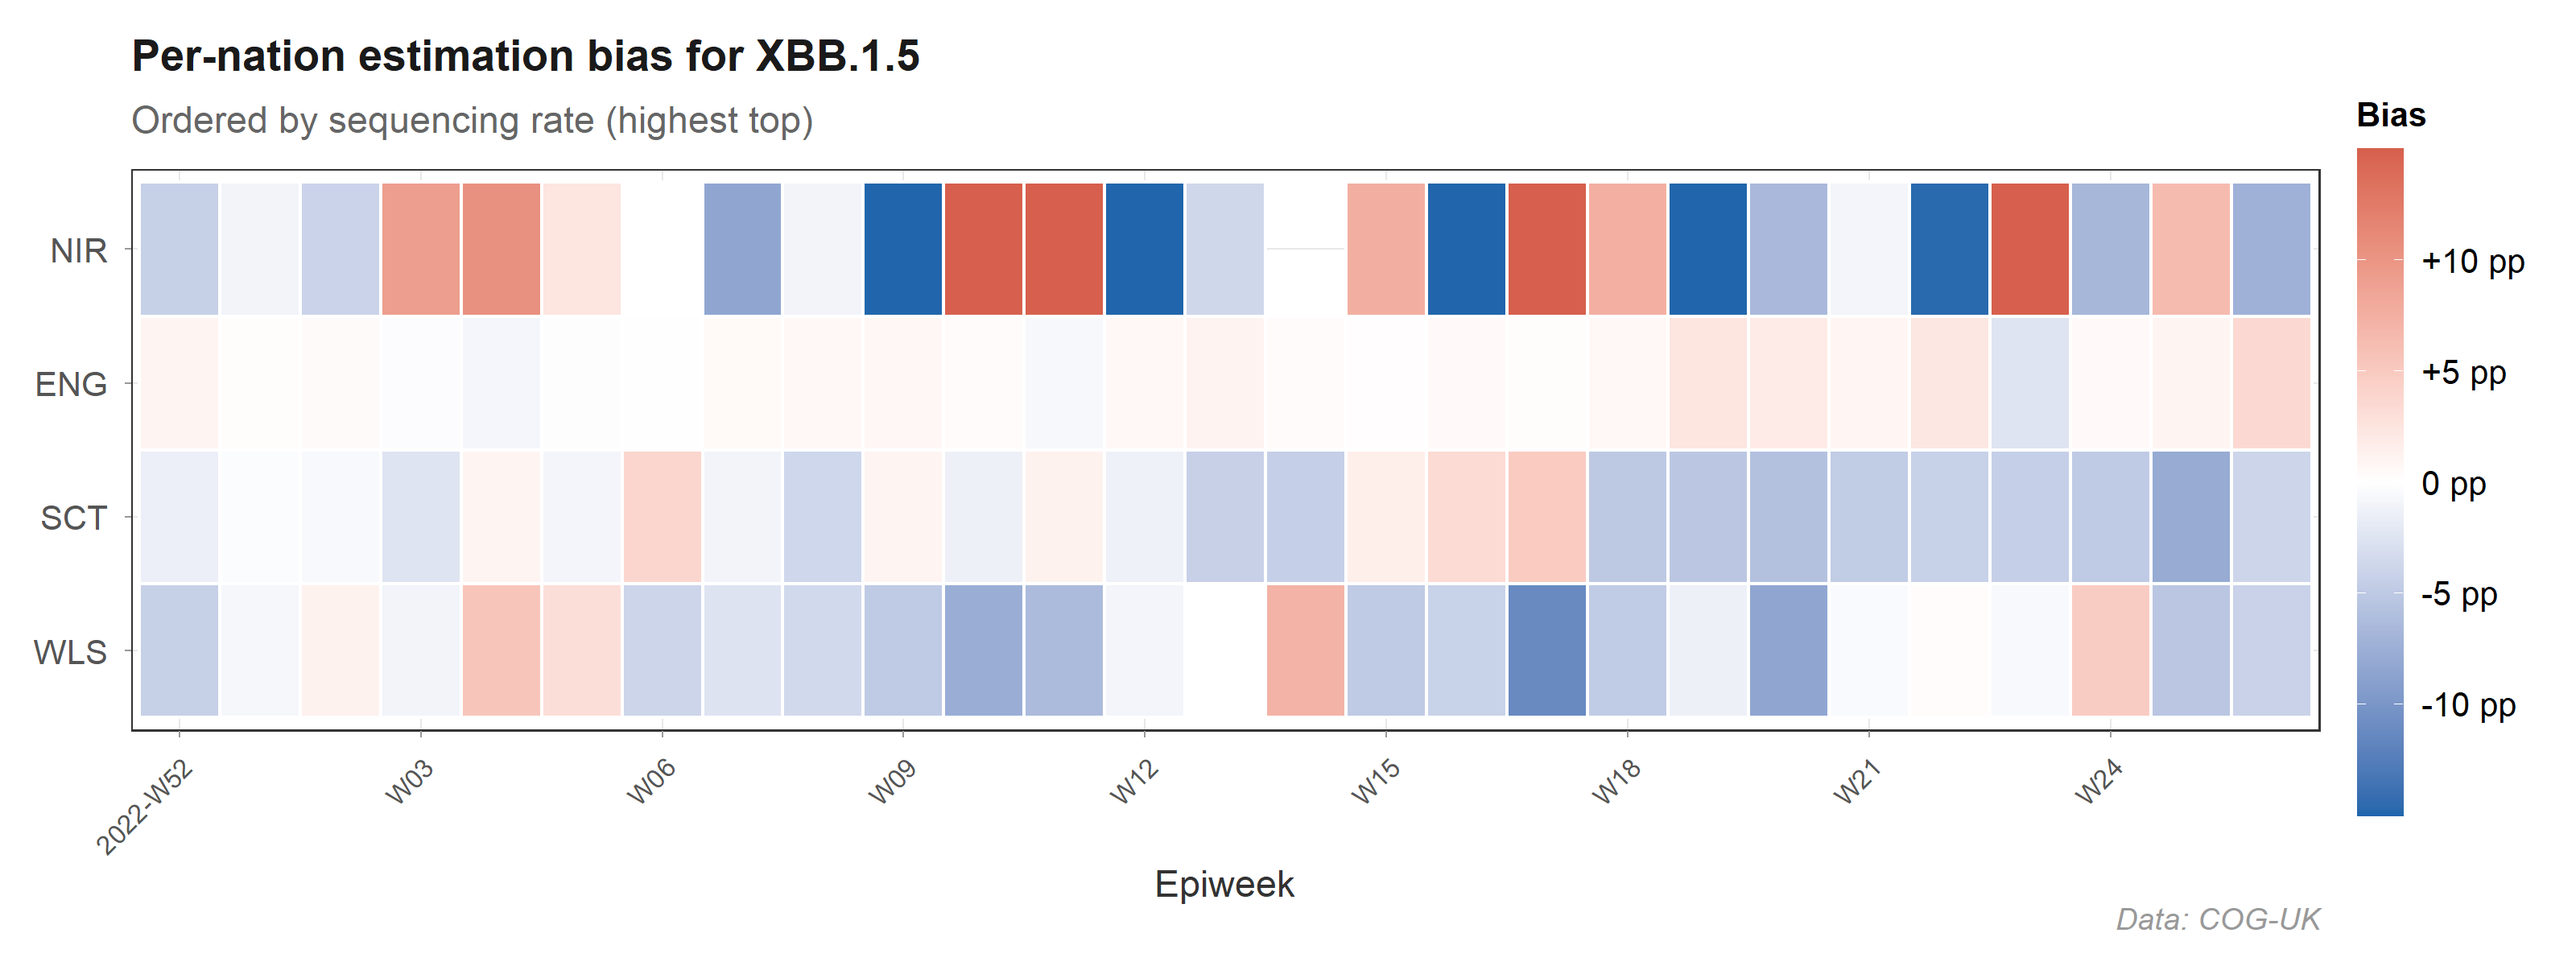
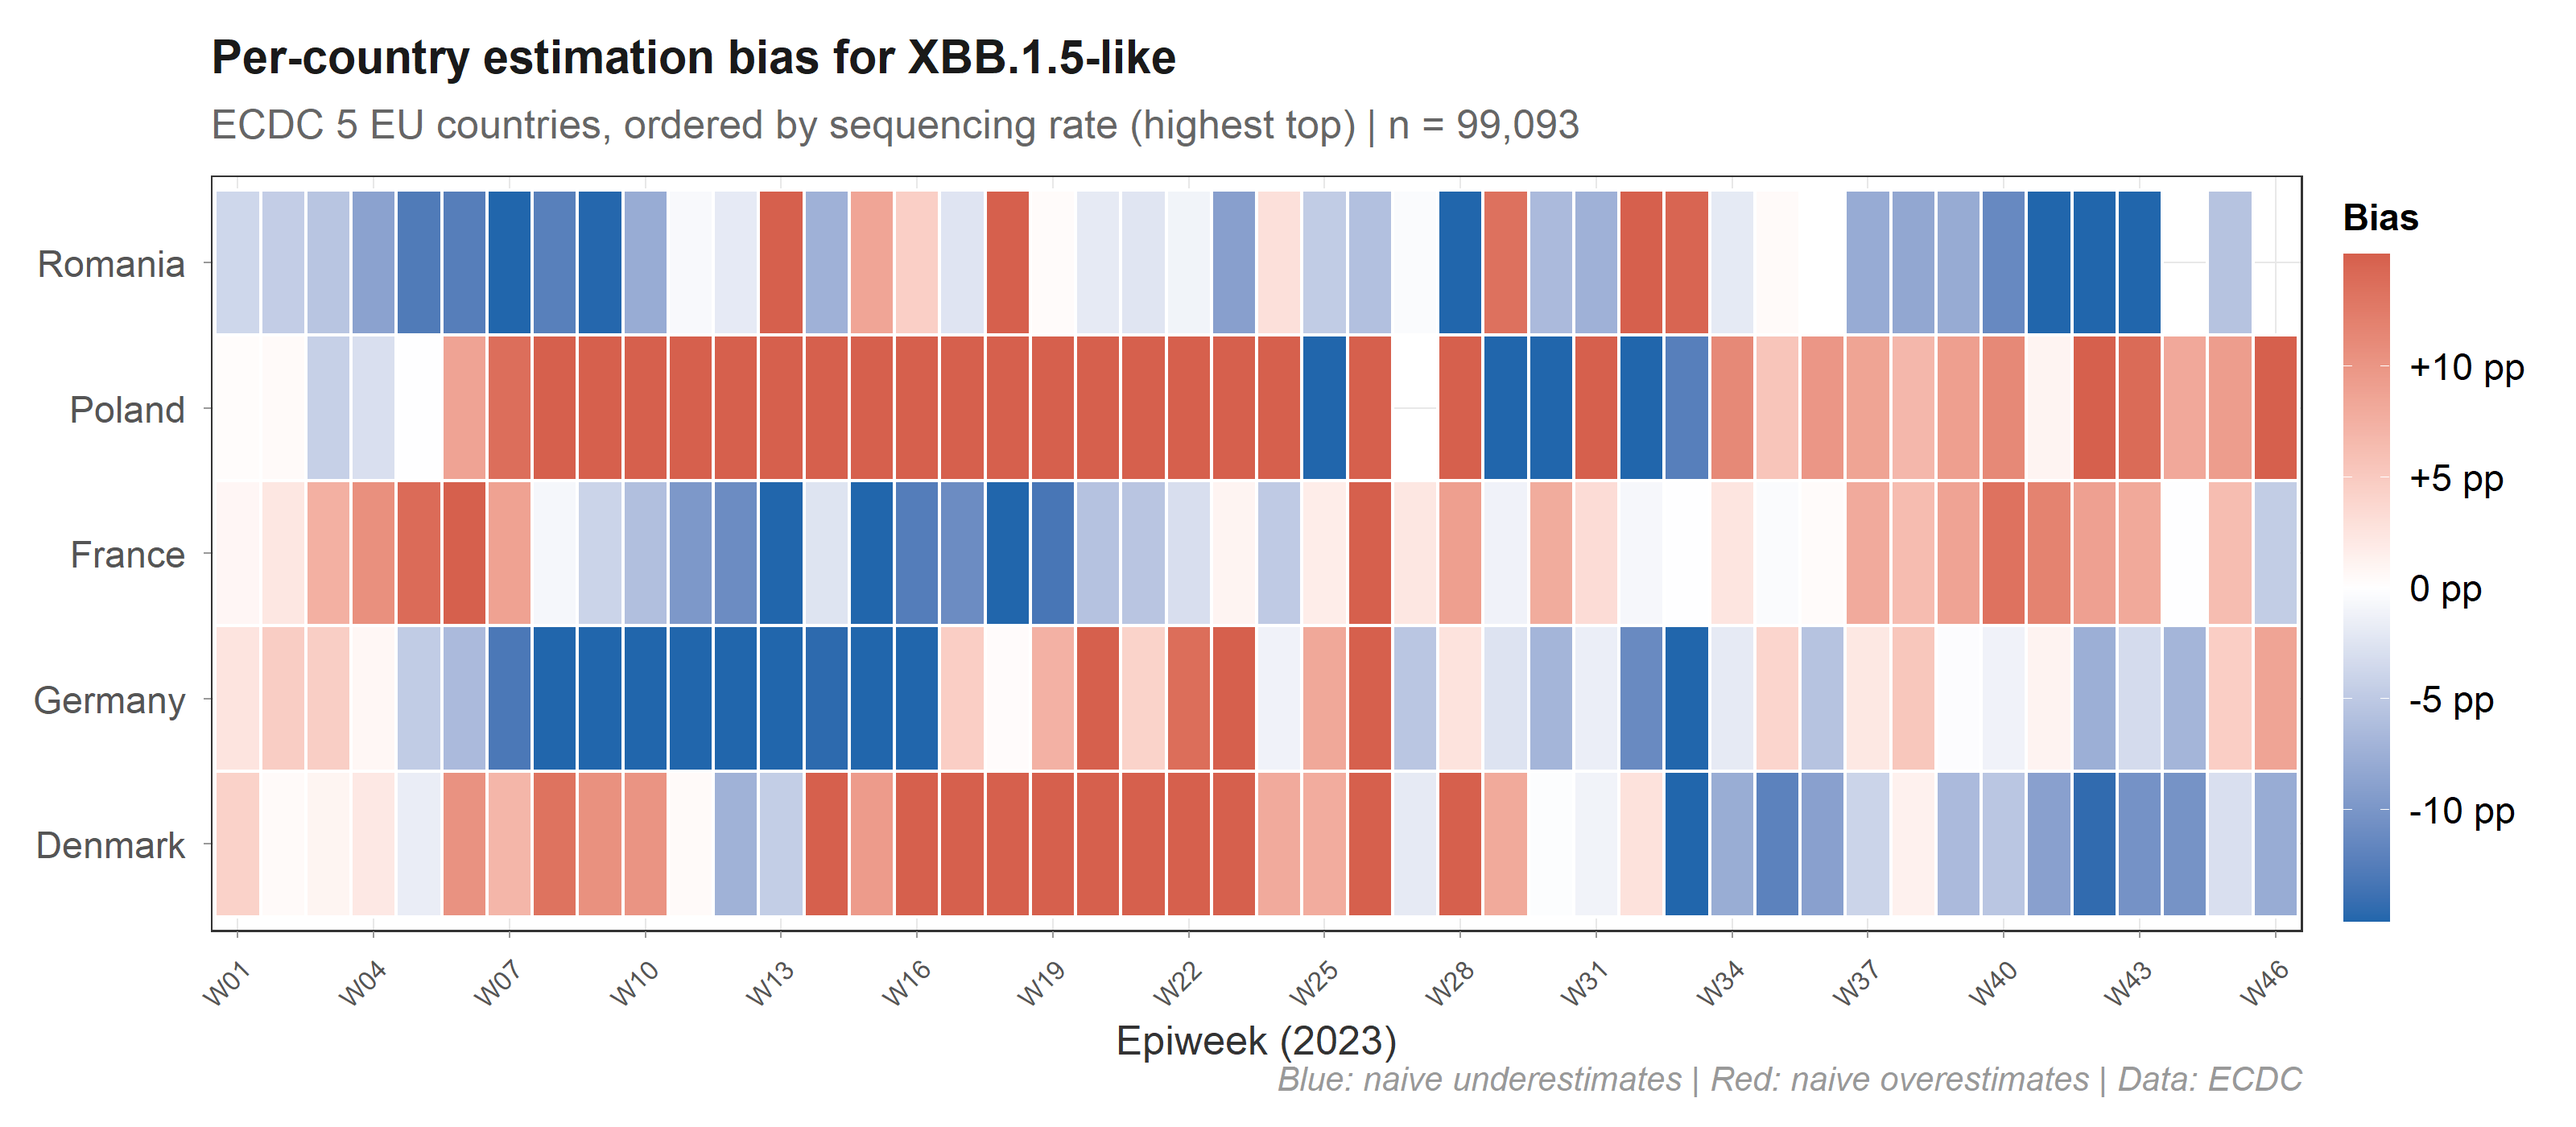
FIX fig3: ECDC heatmap — bias range -37 to +45 pp (was ±10 COG-UK)
5 EU countries with 40x inequality produce vivid red/blue contrast.
Poland/Romania strongly red, Denmark strongly blue.

diff --git a/README.md b/README.md
@@ -79,13 +79,13 @@ Figures use **ECDC variant surveillance data** (5 EU countries, n = 99,093) and 
 > **Result:** With 40-fold sequencing inequality (Gini = 0.54), the naive estimate diverges from the design-weighted estimate by **up to 14 percentage points** (mean 3.8 pp). The red shaded area is the bias eliminated by design weighting. The bias is largest during the variant's peak — precisely when accurate estimates matter most.
 
 ### Figure 3 · Bias structure varies by country and time
-*Data: COG-UK real sequences (n = 65,166)*
+*Data: ECDC real sequences (5 EU countries, n = 99,093)*
 
 <p align="center">
 <img src="man/figures/fig3_bias_heatmap.png" width="90%" />
 </p>
 
-> **Interpretation:** Northern Ireland (lowest sequencing) shows distinct bias patterns compared to England and Wales. The bias structure is time-varying and nation-specific, confirming that a single pooled estimate is insufficient.
+> **Interpretation:** Bias ranges from -37 pp to +45 pp across countries and weeks. Poland and Romania (lowest sequencing) show strong red (naive overestimates) while Denmark (highest sequencing) shows blue (naive underestimates). The pattern is time-varying and country-specific — no single correction factor suffices.
 
 ### Figure 4 · Delay-adjusted nowcasting (simulated data)
 
